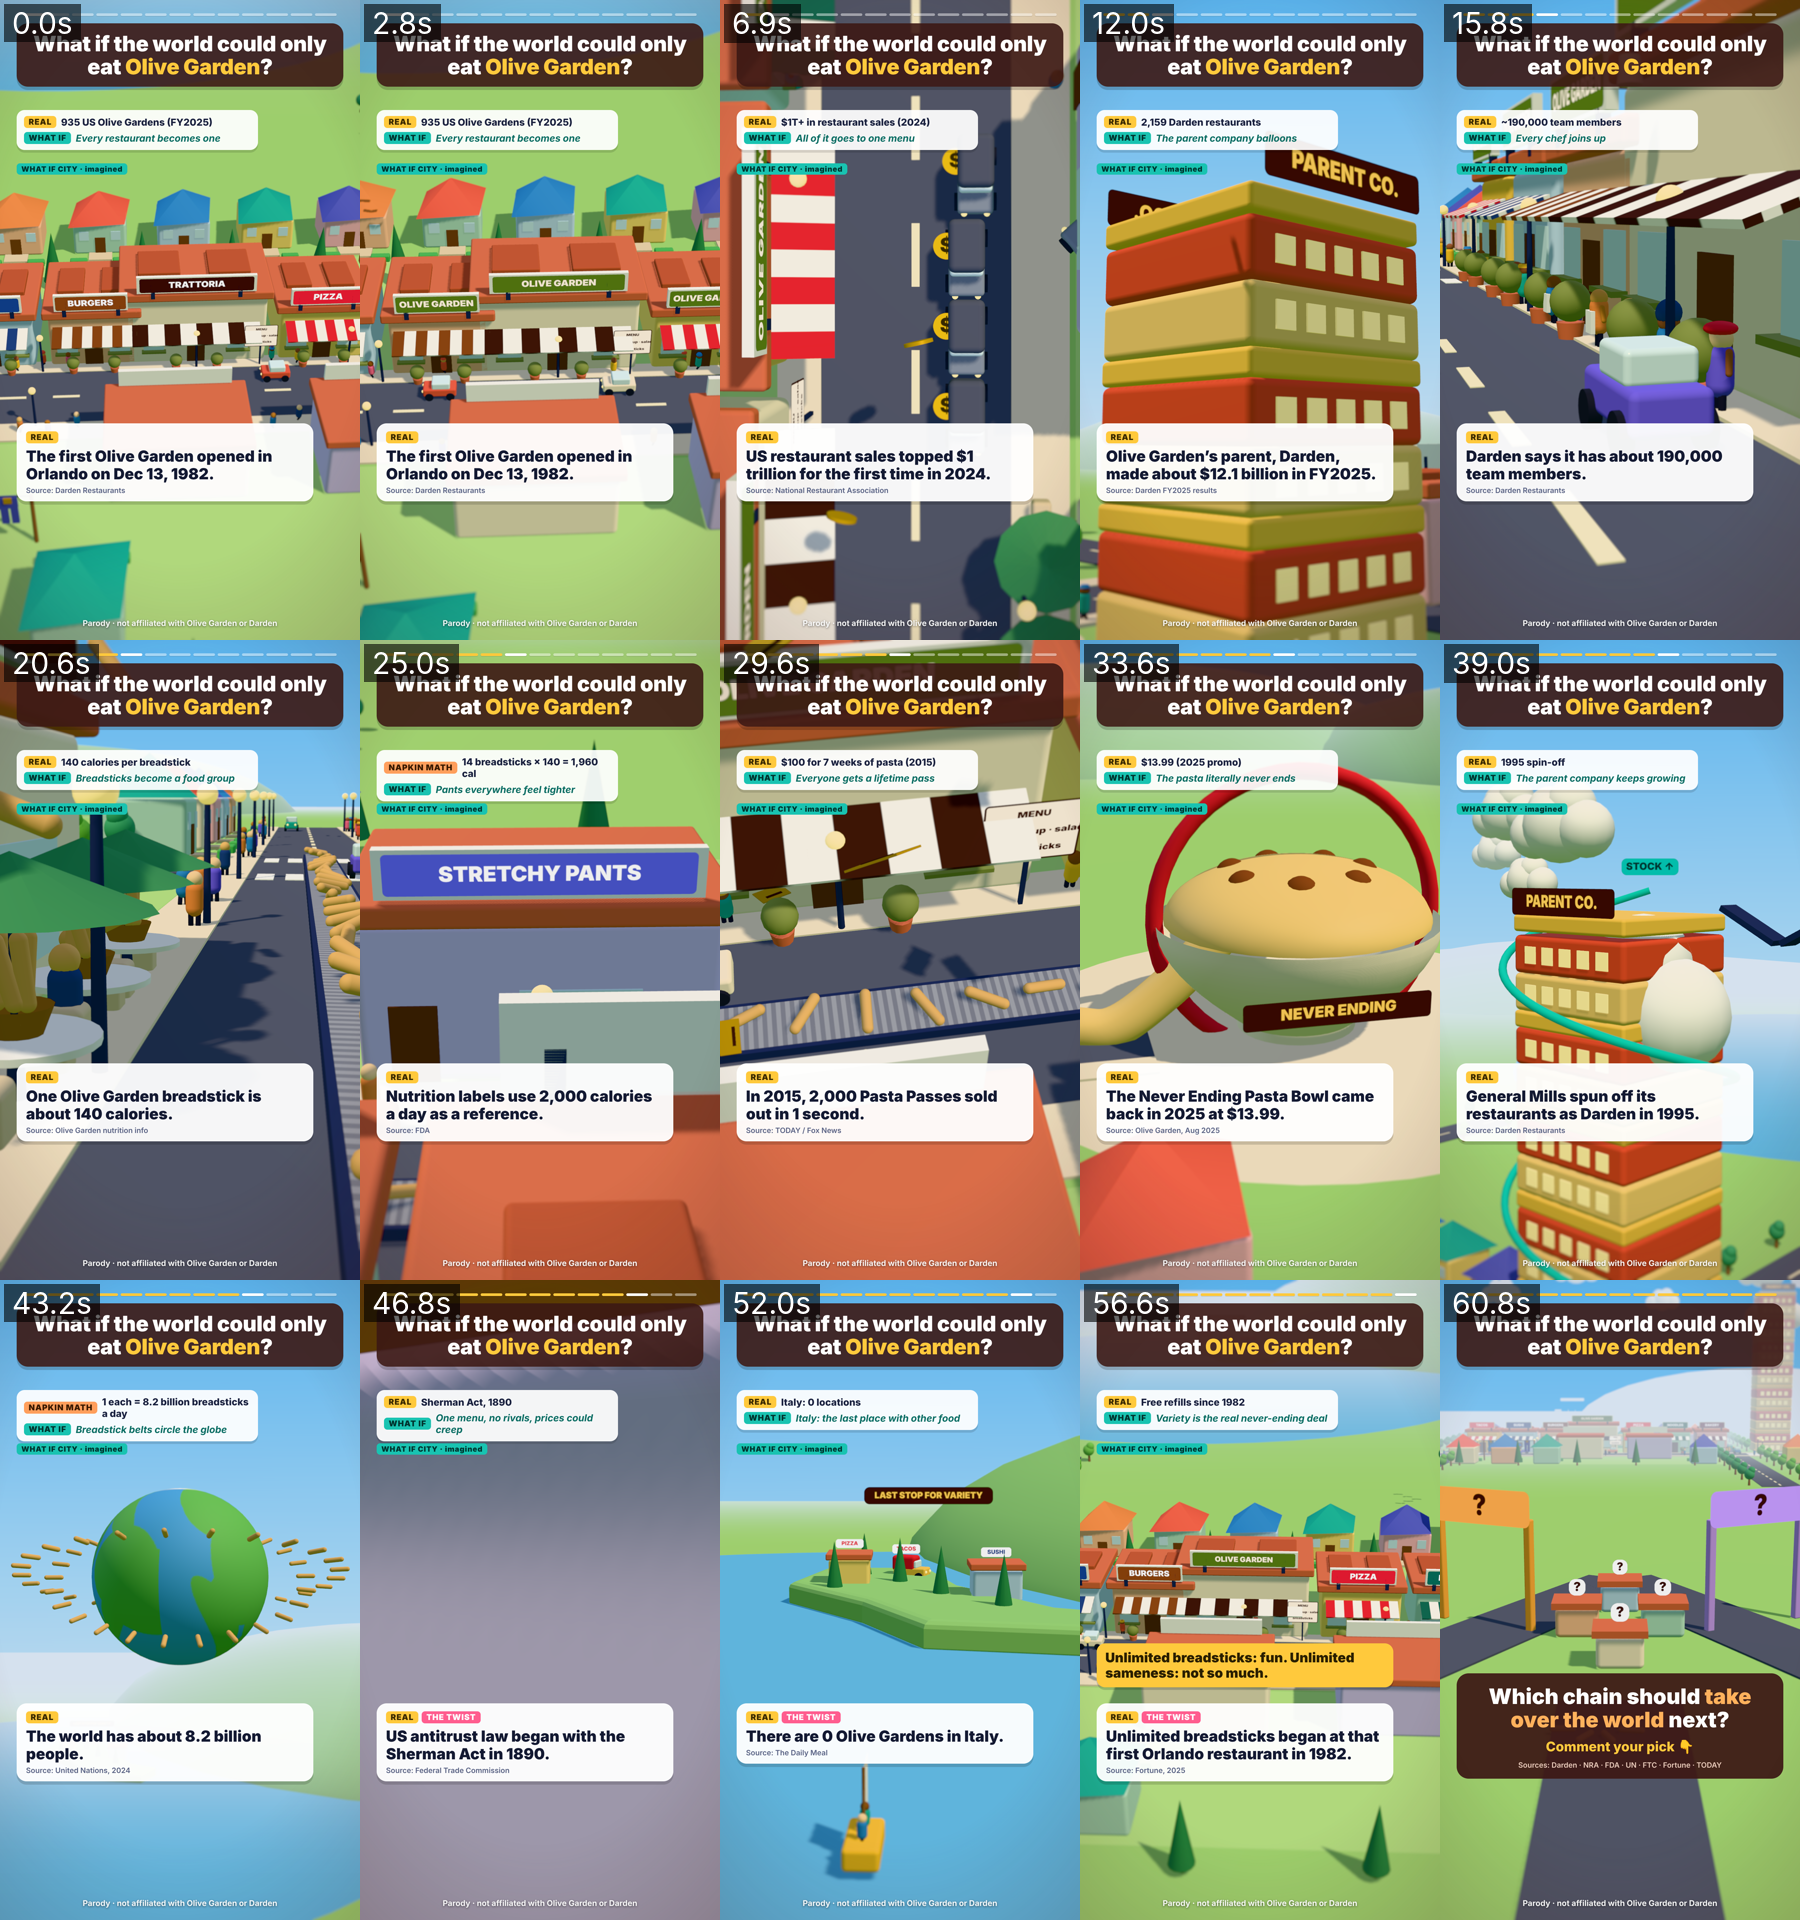
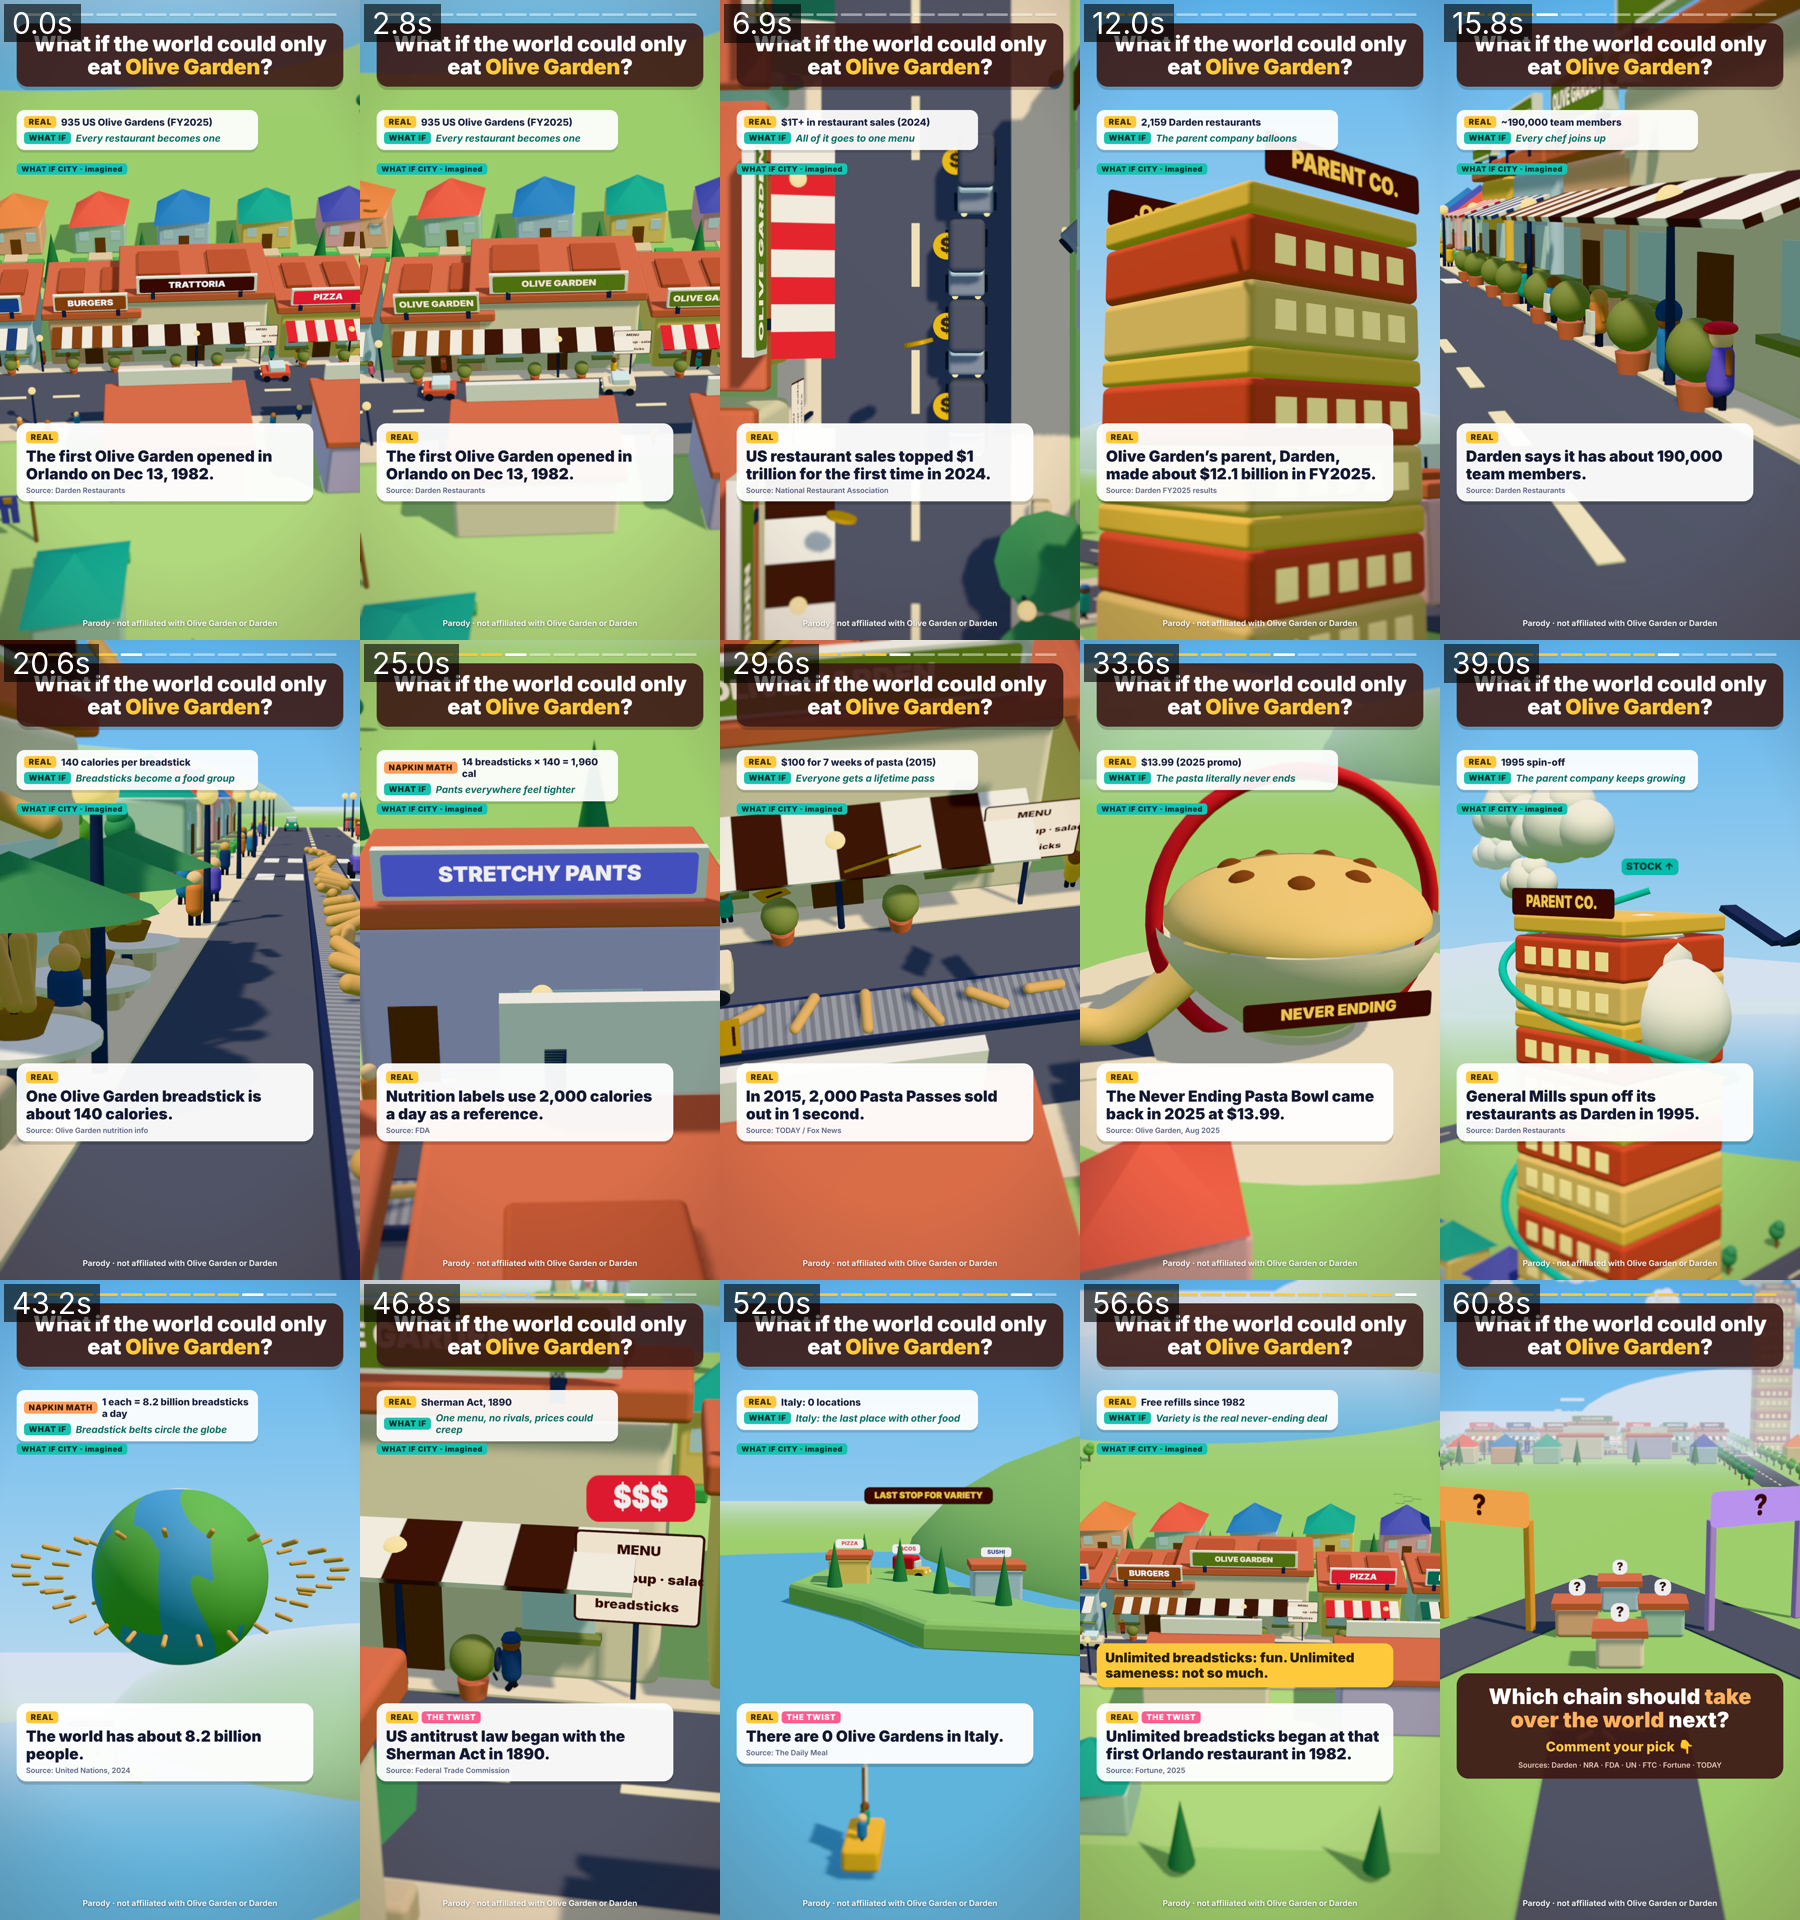
Olive Garden scene: camera fixes and single-sided tower signs
Claude-Session: https://claude.ai/code/session_01Nu2dujPctNvKWQcmHtFCqf

Changed region(s): [[0.1867, 0.6562, 0.4044, 1.0], [0.8711, 0.1562, 0.9644, 0.2188]]

diff --git a/whatif-olive-garden/scene/city.js b/whatif-olive-garden/scene/city.js
@@ -150,7 +150,7 @@ for (let i = 0; i < 12; i++) {
       const floatY = b === 7 ? 0.75 + Math.sin(t * 3 + i) * 0.12 : 0.1 + Math.abs(Math.sin(t * 9 + i)) * 0.03;
       c.position.set(x, floatY, dir > 0 ? 1.6 : -1.6); c.rotation.z = b === 7 ? Math.sin(t * 2.5 + i) * 0.08 : 0;
       c.userData.wheels.forEach(w => { w.rotation.y = -t * sp * 3.5; });
-      c.visible = !(b === 1 && x > -20 && x < 16);
+      c.visible = !((b === 1 || b === 3 || b === 10) && x > -20 && x < 16);
     });
   } else {
     const cx = i % 2 ? -36 : 24; c.rotation.y = dir > 0 ? -Math.PI / 2 : Math.PI / 2;
@@ -198,6 +198,7 @@ for (let f = 0; f < 22; f++) {
 const towerSign = new THREE.Group(); tower.add(towerSign);
 towerSign.add(at(textPlane('PARENT CO.', 7.4, 1.4, { bg: '#3c1814', fg: '#ffd166', font: '900 96px Inter', radius: 24 }), 0, 0, 4.3));
 { const bk = at(textPlane('PARENT CO.', 7.4, 1.4, { bg: '#3c1814', fg: '#ffd166', font: '900 96px Inter', radius: 24 }), 0, 0, -4.3); bk.rotation.y = Math.PI; towerSign.add(bk); }
+towerSign.children.forEach(m => { m.material.side = THREE.FrontSide; }); // each face reads only from its own side
 const ticker = new THREE.Mesh(new THREE.BufferGeometry(), M('#19c3b1', { emissive: '#0d7d72', emissiveIntensity: 0.4 })); tower.add(ticker);
 const tickerHead = sprite('STOCK ↑', 3.4, 1.0, { bg: '#19c3b1', fg: '#00332e', font: '900 96px Inter', radius: 50 }); tower.add(tickerHead);
 const towerCloud = cloud(2.4); towerCloud.position.set(34, 30, -12);
@@ -487,7 +488,7 @@ setShots([
   { orbit: { c: V(50, 5, 0), r: 44, h: 18, a0: 2.2, a1: 1.3 } },                                           // 8 orbit the giant bowl
   { p0: V(66, 8, 22), p1: V(66, 44, 22), t0: V(34, 8, -12), t1: V(34, 40, -12) },                          // 9 crane up the tower
   { p0: V(0, 48, 14), p1: V(0, 52, 34), t0: V(0, 46, -42), t1: V(0, 46, -42) },                            // 10 pull out from the little Earth
-  { p0: V(HX + 13, 4.0, 13), p1: V(HX + 11.5, 3.8, 11.5), t0: V(HX + 3, 3.0, -3.3), t1: V(HX + 3, 3.0, -3.3) }, // 11 close on the menu board
+  { p0: V(HX + 6, 9.5, 14), p1: V(HX + 5.5, 8.5, 12), t0: V(HX + 3, 2.8, -3.3), t1: V(HX + 3, 2.8, -3.3) }, // 11 close on the menu board
   { p0: V(-20, 14, -78), p1: V(-20, 11, -92), t0: V(-20, 3, -150), t1: V(-20, 3, -150) },                 // 12 wide over the water to Italy
   { p0: V(-6, 6, 14), p1: V(0, 52, 92), t0: V(-6, 4, 0), t1: V(-4, 6, -8) },                              // 13 pull back
   { p0: V(0, 15, 190), p1: V(0, 15, 190), t0: V(0, 4, 140), t1: V(0, 4, 140) },                           // end card
